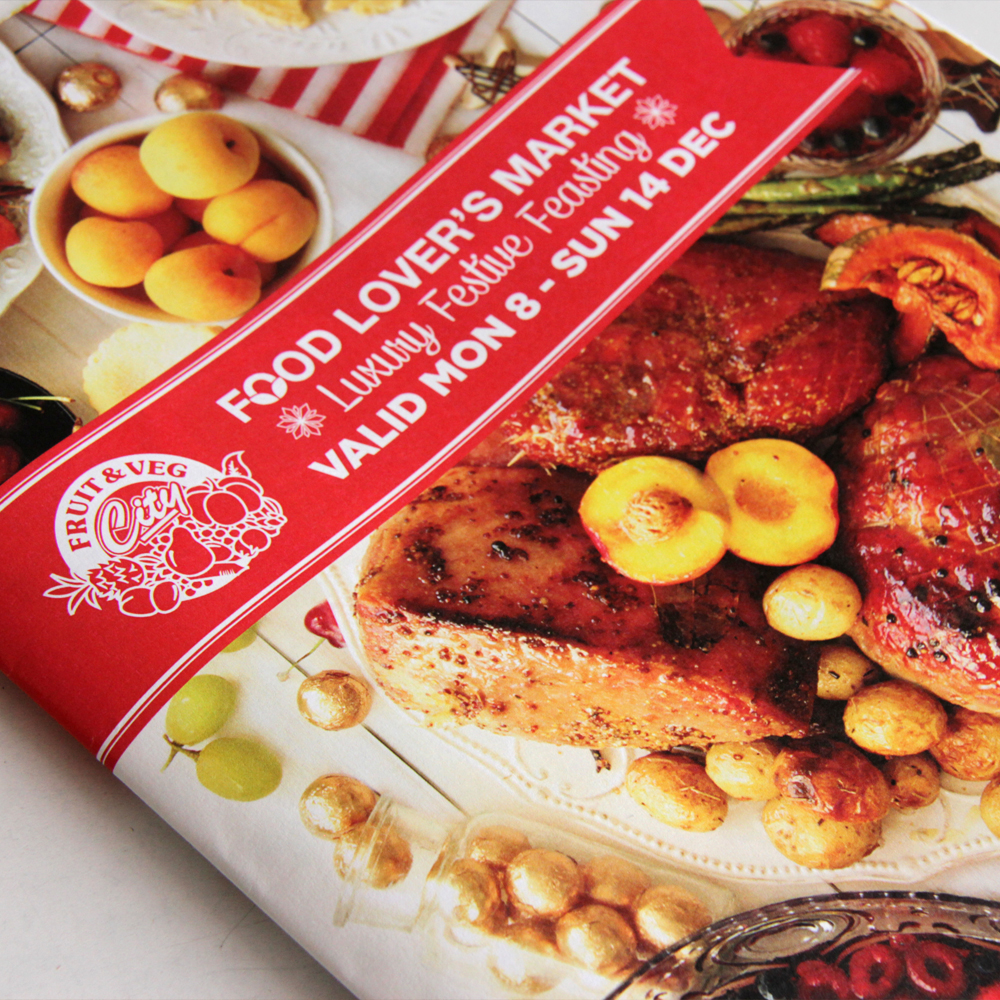
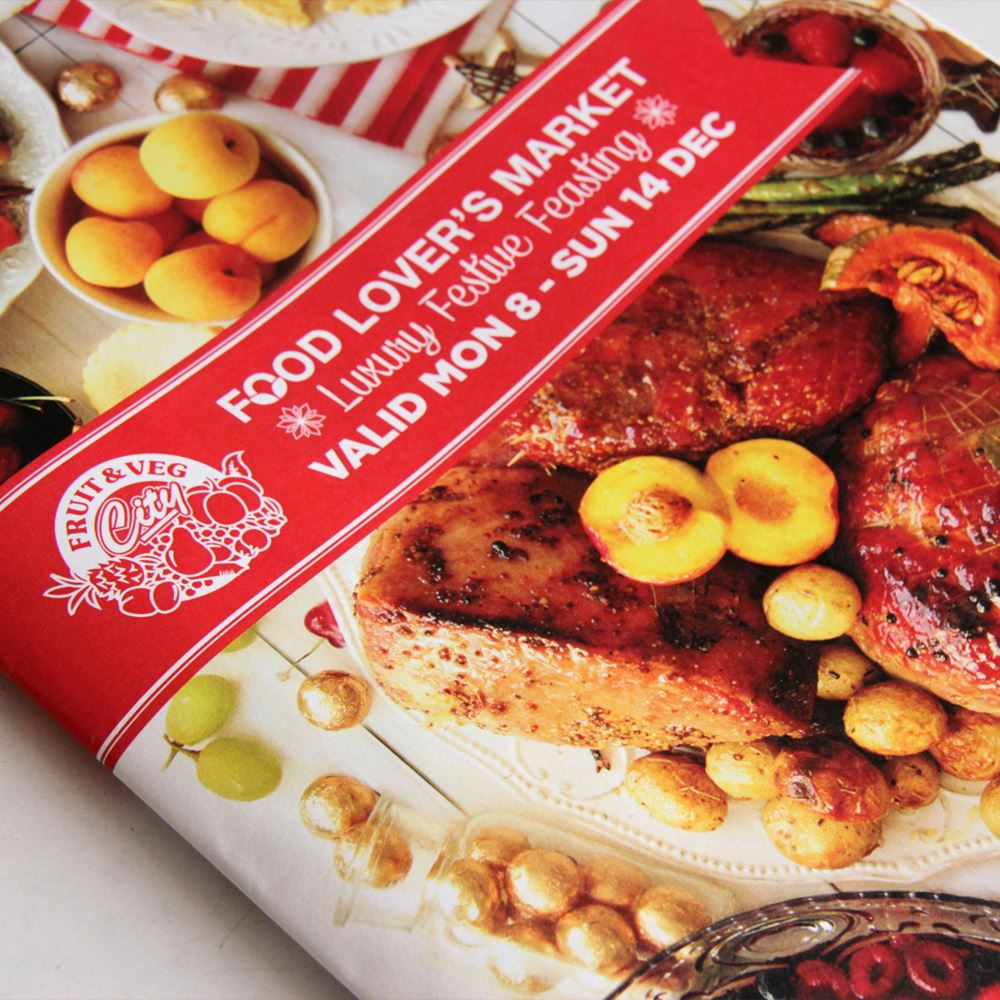
Add Cowork handoff doc + commit leftover image updates
- COWORK_HANDOFF.md: session brief for next Cowork session covering
  what shipped tonight (1eb170f), how we recovered from the failed
  full Update 2 attempt, and what's left for the project restructure
- .gitignore: exclude _originals/ backup folders from repo
- Commit pending image updates from earlier sessions (linda-1.jpg
  contact photo, thumbnails 02/12 swaps, 01.webp variant)

diff --git a/COWORK_HANDOFF.md b/COWORK_HANDOFF.md
@@ -1,0 +1,123 @@
+# Lindmill Designs — Cowork Handoff (2026-05-24 evening)
+
+> **Use this doc to brief Claude in Cowork on what just shipped and what's left.**
+> Copy/paste the *Status snapshot* + *What's left* sections into the next Cowork session.
+
+---
+
+## Status snapshot
+
+**Repo:** `angusm99/lindmill-designs-site` (branch `main`)
+**Latest commit:** `1eb170f` — *"Update 2 (visuals only): hero size, pink headings, white contact, resume page"*
+**Local preview:** `http://192.168.1.106:5500` (run `python -m http.server 5500 --bind 0.0.0.0` from the site folder)
+**Deployed:** not yet — Netlify drag-and-drop still pending
+
+**One-file site:** everything lives in `index.html` (~2,000 lines). Pure HTML + CSS + vanilla JS, no build step.
+
+---
+
+## What shipped in this session (Update 2 — Part 1 of 2)
+
+Linda sent a second batch of changes in `LINDMILL_UPDATE_2.md`. We split the work into two commits — the **visual changes shipped tonight**, the **project restructure saved for tomorrow** (see *What's left* below).
+
+### ✅ Home page
+- Hero logo doubled (`max-width: 1200px`, was 600px)
+- Decorative twinkling stars hidden (video already has stars baked in) — done via CSS only so the JS that creates them still runs harmlessly
+
+### ✅ Work page
+- Header logo swapped to `images/updated-logo.gif` (Linda's new GIF)
+- **ALL WORK** heading → pink (`#fe2786`)
+- Pink overlay on thumbnails removed — thumbnails show natural colour
+- Scroll-to-top button → pink (was lime)
+- Footer: **Behance link removed** · 28px more breathing room between GET IN TOUCH button and social icons
+
+### ✅ Contact page
+- White background (was navy)
+- Body text retinted to dark navy (`#143465`) for contrast on white
+- **HELLO!** heading → pink (`#fe2786`)
+- Header logo + about-badge swapped to `updated-logo.gif`
+- Old footer (See My Work + Portfolio buttons) replaced with **work-style dark footer**: RESUME button + social icons (Instagram, LinkedIn, Email — no Behance)
+
+### ✅ Resume page (brand new)
+- New `<section id="resume">` page — opens when RESUME button is clicked
+- White background, pink section headings, navy text
+- Real CV content fetched from Linda's existing Carrd page (`https://lindmilldesign.carrd.co`):
+  - **Profile** — 15+ years across fashion, interiors, food/jewellery, pet brands
+  - **Freelance** (April 2021–present) — Anglo Windows · Timothy Oulton · The Really Great Teacher Co.
+  - **In-house** (Jan 2011–April 2021) — Rogz Pet Gear · Root 360 · Hamiltons · Triumph Lingerie
+  - **Skills** grouped: Design / Writing / Software (Illustrator, Photoshop, AE, InDesign, Animate, Figma, Office)
+  - **Contact** — email, Instagram, LinkedIn
+- Resume page footer has its own GET IN TOUCH button → links back to Contact
+
+---
+
+## How we got here (failed attempt + recovery)
+
+A first attempt at Update 2 (`47a1573`) tried to do everything at once — visual changes **and** the big project restructure. It broke the site: console errors, broken tiles, missing fonts, layout issues. We reverted it (`7c2e33f`) and reshipped only the safe visual half (`1eb170f`).
+
+**Key safety patterns used this time** — apply these to any further edits:
+
+1. **Hide, don't delete.** When removing the stars and pink overlay, we left the JS / HTML in place and added `display: none !important` overrides at the end of the stylesheet. Nothing for the JS to crash on.
+2. **Scope new CSS.** White-background changes are written as `#about .xxx { ... !important }` so they can't leak onto Work or Home.
+3. **Append overrides last.** All Update-2 CSS lives in one block at the very end of the `<style>` tag → wins specificity by source order, no need to hunt down every old rule.
+4. **Don't touch the typography selectors.** The previous attempt edited `.work-heading, .about-hello, .modal-title { color: #d9ff76; }` and broke fonts. This time we just overrode `.about-hello` separately.
+5. **Don't touch the PROJECTS object** unless you're doing the project split. The 12 existing project tiles + their `openModal()` keys are working — leave them alone.
+
+---
+
+## What's left (Update 2 — Part 2, to ship tomorrow)
+
+**Linda's brief calls for splitting 4 multi-project tiles into 17 sub-projects and renaming 2 more. Plan: do this as a single dedicated commit AFTER confirming visuals look right.**
+
+### Project splits
+| Current tile | Split into |
+|---|---|
+| Animated | Blooming Flowers, Dorothy, New Year, Rogz, Star, Throwball |
+| Illustrated | Pink Moon, Plugged In, Rogz Characters, Something Fishy, Space Inspectors |
+| Textile Design | Fancy Dress 2018, Fancy Dress 2019, Small Dog Range |
+| Layout & Signage | Triumph Layout, Food Lover's Layout, Food Lover's Signage |
+
+### Renames
+- Drawn → **Angus**
+- Painted → **Lexi**
+
+**Source assets** are all in:
+`C:\Users\User\CLAUDE\LINDA MILLER WEBSITE\LINDMILL ASSET FOLDER-20260522T162626Z-3-001\LINDMILL ASSET FOLDER\`
+
+Each sub-project already has its own subfolder there (e.g. `MOTION & ILLUSTRATION\ANIMATED\Blooming Flowers\`). The previous failed attempt successfully copied them into `images/blooming-flowers/`, `images/dorothy/`, etc. and the file counts checked out — the assets work, only the HTML/JS restructure broke things. The PowerShell copy commands are in the chat history if anyone wants to re-run them quickly.
+
+### Implementation notes for next session
+- After copying assets, update the `PROJECTS` object in `<script>` with 25 entries (12 originals minus 4 split-out + 17 new sub-projects + 2 renames). Keep `folder`, `thumb`, `maxCount`, `title`, `role`, `desc` fields.
+- Update the 12 `.project-tile` divs in the project grid → 25 tiles, each pointing to its new `openModal('xxx')` key.
+- The 4 categories (Animation / Illustration / Digital / Branding) stay the same — `data-category` values on each tile decide which filter pill shows it.
+- Test each tile click in the browser before committing.
+
+---
+
+## Open follow-ups (lower priority, parked from earlier sessions)
+
+- **Real social URLs** — Instagram / LinkedIn placeholders still link to `https://www.instagram.com/`. Get Linda's actual handles. (Resume page already uses her real `@thelindamiller` — apply that to footer socials too.)
+- **Netlify deploy** — still not done. Easiest path: drag the `lindmilldesigns-site` folder onto `https://app.netlify.com/drop`.
+- **Custom domain** — Linda hasn't decided. `lindmilldesigns.com` ~R200/yr at Namecheap.
+- **Logo GIF transparency** — `updated-logo.gif` may still have a white background. Visible mainly on the about-badge. If Linda wants a clean blend, she'll need to export a transparent-bg GIF or PNG sequence.
+- **Image compression audit** — `01.gif` is 7 MB, `linda-1.jpg` is 2.19 MB. Worth shrinking before deploy.
+- **Performance optimisation** — open task #16 from earlier session.
+- **Gallery sub-grouping** — task #18: sort larger galleries by sub-project (matters less now that the splits will happen anyway).
+
+---
+
+## Quick reference
+
+```
+Site folder:    C:\Users\User\Documents\CLAUDE MASTER\Lindmill Designs\lindmilldesigns-site
+Run server:     python -m http.server 5500 --bind 0.0.0.0
+Mobile preview: http://192.168.1.106:5500
+Desktop:        http://localhost:5500
+GitHub:         angusm99/lindmill-designs-site
+Last good SHA:  1eb170f
+Linda's email:  thelindamiller@gmail.com
+```
+
+---
+
+*Generated 2026-05-24 evening at end of Update 2 — Part 1 session.*
